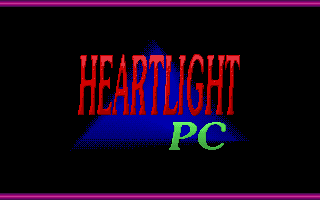
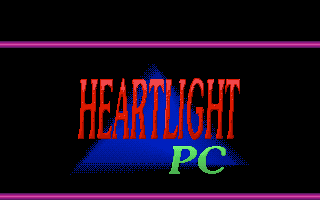
Playing with viewports

diff --git a/myEngine.cpp b/myEngine.cpp
@@ -32,7 +32,7 @@ myEngine::myEngine(uint16_t iWidth, uint16_t iHeight, string sTitle) : Engine(iW
     m_bMusic = true;
     m_bRad  = false;
     m_bJumped = false;
-    m_rcViewScreen.set(0,0,getWidth(),getHeight());
+    //m_rcViewScreen.set(0,0,getWidth(),getHeight());
 //    m_bDragScreen = false;
 //    m_bScaleScreen = false;
 }
@@ -153,9 +153,9 @@ void myEngine::draw()
 
     //glDisable( GL_LIGHTING );   //Don't care about lighting for rendering 2D objects
     //hideCursor();
-    drawObjects(m_rcViewScreen);
+    drawObjects();
     if(m_iCurGun != m_lGuns.end())
-        (*m_iCurGun)->draw(m_rcViewScreen);
+        (*m_iCurGun)->draw();
 
     //Draw debug stuff if we should
     if(m_bDebug)
@@ -433,8 +433,12 @@ void myEngine::hudSignalHandler(string sSignal)
     playSound("o_toggle");  //Play sound for toggling hud item
 }
 
+float fXpos = 0.0;
+float fYpos = 0.0;
+
 void myEngine::handleEvent(SDL_Event event)
 {
+    static bool isMouseDown = false;
     m_hud->event(event);    //Let our HUD handle any events it needs to
     switch(event.type)
     {
@@ -514,9 +518,9 @@ void myEngine::handleEvent(SDL_Event event)
                     loadLevelDirectory("res/levels");
                     break;
 
-                case SDLK_0:
-                    m_rcViewScreen.set(0,0,getWidth(),getHeight());
-                    break;
+                //case SDLK_0:
+                //    m_rcViewScreen.set(0,0,getWidth(),getHeight());
+                //    break;
                 
                 case SDLK_1:
                     iCurResolution++;
@@ -565,6 +569,7 @@ void myEngine::handleEvent(SDL_Event event)
             break;
 
         case SDL_MOUSEBUTTONDOWN:
+            isMouseDown = true;
             if(event.button.button == SDL_BUTTON_LEFT)
             {
                 if(m_iCurGun != m_lGuns.end())
@@ -582,6 +587,7 @@ void myEngine::handleEvent(SDL_Event event)
             break;
 
         case SDL_MOUSEBUTTONUP:
+            isMouseDown = false;
             if(event.button.button == SDL_BUTTON_LEFT)
             {
                 if(m_iCurGun != m_lGuns.end())
@@ -598,6 +604,13 @@ void myEngine::handleEvent(SDL_Event event)
             if(m_iCurGun != m_lGuns.end())
             {
                 (*m_iCurGun)->mouseMove(event.motion.x,event.motion.y);
+            }
+            if(isMouseDown)
+            {
+              glTranslatef(event.motion.xrel/1000.0, -event.motion.yrel/1000.0, 0.0);
+              fXpos += event.motion.xrel;
+              fYpos -= event.motion.yrel;
+              cout << "pos: " << fXpos << ", " << fYpos << endl;
             }
 /*            if(m_bDragScreen)
             {

diff --git a/Object.cpp b/Object.cpp
@@ -50,11 +50,11 @@ bool Object::update()
     return !m_bDying;
 }
 
-void Object::draw(Rect rcScreen)
+void Object::draw()
 {
     Rect rcImgPos = {0,m_iHeight*m_iCurFrame,m_iWidth,m_iHeight*(m_iCurFrame+1)};
     layer->pos = m_ptPos;//.Set(m_ptPos.x + getWidth()/2.0, m_ptPos.y + getHeight()/2.0);
-    layer->draw(rcScreen, rcImgPos);
+    layer->draw(rcImgPos);
 }
 
 void Object::setNumFrames(uint16_t iNumFrames, bool bAnimateOnce)
@@ -112,13 +112,13 @@ physicsObject::~physicsObject()
 {
 }
 
-void physicsObject::draw(Rect rcScreen)
+void physicsObject::draw()
 {
     Rect rcImgPos = {0,m_iHeight*m_iCurFrame,m_iWidth,m_iHeight*(m_iCurFrame+1)};
     layer->pos = m_physicsBody->GetPosition();
     layer->pos *= SCALE_UP_FACTOR;
     layer->rot = m_physicsBody->GetAngle();
-    layer->draw(rcScreen, rcImgPos);
+    layer->draw(rcImgPos);
 }
 
 //-----------------------------------------------------------------------------------------------------------------------
@@ -146,10 +146,10 @@ void obj::draw()
             ptPos = (*i)->body->GetPosition();
             rot = (*i)->body->GetAngle();
         }
-        if((*i)->image != NULL)
-            (*i)->image->drawCentered(ptPos.x + (*i)->pos.x*cos(rot) - (*i)->pos.y*sin(rot),
-                                      ptPos.y + (*i)->pos.y*cos(rot) + (*i)->pos.x*sin(rot),
-                                      (*i)->rot + rot, (*i)->scale.x, (*i)->scale.y);
+        if((*i)->layer != NULL && (*i)->layer->image != NULL)
+            (*i)->layer->image->drawCentered(ptPos.x + (*i)->layer->pos.x*cos(rot) - (*i)->layer->pos.y*sin(rot),
+                                      ptPos.y + (*i)->layer->pos.y*cos(rot) + (*i)->layer->pos.x*sin(rot),
+                                      (*i)->layer->rot + rot, (*i)->layer->scale.x, (*i)->layer->scale.y);
     }
 }
 
@@ -164,11 +164,7 @@ void obj::addSegment(physSegment* seg)
 physSegment::physSegment()
 {
     body = NULL;
-    image = NULL;
-    depth = 0.0;
-    scale.SetZero();
-    pos.SetZero();
-    rot = 0.0;
+    layer = NULL;
 }
 
 

diff --git a/Image.cpp b/Image.cpp
@@ -230,16 +230,19 @@ void Image::drawCentered(Point pt, float32 rotation, float32 stretchFactorx, flo
 void Image::drawCentered(float32 x, float32 y, Rect rcImgPos, float32 rotation, float32 stretchFactorx, float32 stretchFactory)
 {
     Rect rcDrawPos;
+    //TODO This scaling won't work! Fix
     rcDrawPos.set(0, 0, rcImgPos.width(), rcImgPos.height());
     rcDrawPos.scale(stretchFactorx,stretchFactory);
     rcDrawPos.offset(-rcDrawPos.width()/2.0 + (float32)screenDrawWidth/2.0 - m_ptHotSpot.x, -rcDrawPos.height()/2.0 + (float32)screenDrawHeight/2.0 - m_ptHotSpot.y);
-    glLoadIdentity( );
-    glTranslatef( (2.0*(float32)screenDrawWidth/(float32)screenDrawHeight)*((GLfloat)(x)/(GLfloat)screenDrawWidth-0.5), -2.0*(GLfloat)(y)/(GLfloat)screenDrawHeight + 1.0, MAGIC_ZOOM_NUMBER);
+    //glLoadIdentity( );
+    glTranslatef( (2.0*(float32)screenDrawWidth/(float32)screenDrawHeight)*((GLfloat)(x)/(GLfloat)screenDrawWidth-0.5), -2.0*(GLfloat)(y)/(GLfloat)screenDrawHeight + 1.0, 0.0);//MAGIC_ZOOM_NUMBER);
     glRotatef(-rotation*180.0/PI,0.0f,0.0f,1.0f);
     draw(rcDrawPos,rcImgPos);
     //Reset rotation
-    glLoadIdentity( );
-    glTranslatef( 0.0f, 0.0f, MAGIC_ZOOM_NUMBER);
+    //glLoadIdentity( );
+    //glTranslatef( 0.0f, 0.0f, MAGIC_ZOOM_NUMBER);
+    glRotatef(rotation*180.0/PI,0.0f,0.0f,1.0f);
+    glTranslatef( -((2.0*(float32)screenDrawWidth/(float32)screenDrawHeight)*((GLfloat)(x)/(GLfloat)screenDrawWidth-0.5)), -(-2.0*(GLfloat)(y)/(GLfloat)screenDrawHeight + 1.0), 0.0);
 }
 
 void Image::drawCentered(Point pt, Rect rcImgPos, float32 rotation, float32 stretchFactorx, float32 stretchFactory)

diff --git a/Object.h b/Object.h
@@ -36,7 +36,7 @@ public:
     //Helper methods
     virtual bool update();  //Return false to destroy the object
     virtual void updateFrame();
-    virtual void draw(Rect rcScreen);
+    virtual void draw();
     virtual void offset(float32 x, float32 y)   {m_ptPos.x += x; m_ptPos.y += y;};
     virtual void offset(Point pt)               {m_ptPos += pt;};
     void kill() {m_bDying = true;};    //Destroy sprite
@@ -118,11 +118,7 @@ class physSegment
 {
 public:
     b2Body* body;
-    Image*  image;
-    float32 depth;
-    Point   scale;
-    Point   pos;
-    float32 rot;
+    parallaxLayer* layer;
 
     physSegment();
 
@@ -154,7 +150,7 @@ public:
     void addFixture(b2FixtureDef* def)   {m_physicsBody->CreateFixture(def);};  //Add a physics fixture to this object
     void addBody(b2Body* body)   {body->SetUserData(this); m_physicsBody = body;};  //TODO Better way of doing this
 
-    virtual void draw(Rect rcScreen);
+    virtual void draw();
     virtual Point getCenter()    {Point pt = m_physicsBody->GetWorldCenter();pt*=SCALE_UP_FACTOR;return pt;};
     virtual b2Body* getBody() {return m_physicsBody;};
 

diff --git a/SceneLayer.cpp b/SceneLayer.cpp
@@ -15,29 +15,19 @@ parallaxLayer::~parallaxLayer()
 {
 }
 
-void parallaxLayer::draw(Rect rcScreen)
+void parallaxLayer::draw()
 {
     Rect rcImgPos;
     rcImgPos.set(0,0,image->getWidth(),image->getHeight());
-    draw(rcScreen, rcImgPos);
+    draw(rcImgPos);
 }
 
-void parallaxLayer::draw(Rect rcScreen, Rect rcImgPos)
+void parallaxLayer::draw(Rect rcImgPos)
 {
     if(image == NULL)
         return;
 
-    //TODO Make sure within screen
-
-    Point ptDrawPos = pos;
-
-    //Account for viewport position
-    ptDrawPos.x -= rcScreen.left;
-    ptDrawPos.y -= rcScreen.top;
-
-    //TODO: Account for parallax scrolling
-
-    image->drawCentered(ptDrawPos, rcImgPos, rot, scale.x, scale.y);
+    image->drawCentered(pos, rcImgPos, rot, scale.x, scale.y);
 }
 
 

diff --git a/Engine.h b/Engine.h
@@ -83,7 +83,7 @@ public:
     void createSound(string sPath, string sName);   //Creates a sound from this name and file path
     void addObject(Object* obj);    //Add an object to the object handler
     void updateObjects();           //update all objects in the game
-    void drawObjects(Rect rcScreen);   //draw all objects in the game
+    void drawObjects();   //draw all objects in the game
     void clearObjects();    //Destroy all objects, freeing memory
     void clearImages();     //Free memory associated with the images in our image map
     virtual void playSound(string sName, int volume = 100, int pan = 0, float32 pitch = 1.0);     //Play a sound

diff --git a/ballGun.cpp b/ballGun.cpp
@@ -82,16 +82,14 @@ void ballGun::fire()//mouseDown(float32 x, float32 y)
     m_lFired.push_back(newObj);
 }
 
-void ballGun::draw(Rect rcScreen)
+void ballGun::draw()
 {
     if(icon != "")
-        getImage(icon)->draw(rcScreen.left + GUN_ICON_DRAW_OFFSET, rcScreen.top + GUN_ICON_DRAW_OFFSET);
+        getImage(icon)->draw(GUN_ICON_DRAW_OFFSET, GUN_ICON_DRAW_OFFSET);
     if(gun != "" && obj != NULL)
     {
         Image* gunImg = getImage(gun);
         Point pos = obj->getCenter();
-        pos.x -= rcScreen.left;
-        pos.y -= rcScreen.top;
         Point dist = m_ptCursorPos;
         dist -= pos;
         float32 angle = 0.0;

diff --git a/Engine.cpp b/Engine.cpp
@@ -241,10 +241,10 @@ void Engine::updateObjects()
         (*i).second->updateFrame();
 }
 
-void Engine::drawObjects(Rect rcScreen)
+void Engine::drawObjects()
 {
     for(multimap<float32, Object*>::iterator i = m_mObjects.begin(); i != m_mObjects.end(); i++)
-        (*i).second->draw(rcScreen);
+        (*i).second->draw();
 }
 
 void Engine::playSound(string sName, int volume, int pan, float32 pitch)
@@ -413,6 +413,7 @@ void Engine::setup_opengl()
 
     glMatrixMode(GL_MODELVIEW);
     glLoadIdentity();
+    glTranslatef( 0.0f, 0.0f, MAGIC_ZOOM_NUMBER);
     //glEnable(GL_CULL_FACE);
     
 }

diff --git a/myEngine.h b/myEngine.h
@@ -59,7 +59,7 @@ private:
     HUD* m_hud;
     bool m_bSound, m_bMusic, m_bRad;    //Booleans for music settings and such
     bool m_bJumped; //For supercomplex movement stuff
-    Rect m_rcViewScreen;    //Screen we can currently see
+    //Rect m_rcViewScreen;    //Screen we can currently see
     list<ballGun*> m_lGuns; //Bombs for throwing at you
     list<ballGun*>::iterator m_iCurGun; //Our current weapon
     Vec2 lastMousePos;

diff --git a/ballGun.h b/ballGun.h
@@ -29,7 +29,7 @@ public:
     virtual void mouseUp(float32 x, float32 y);
     virtual void mouseMove(float32 x, float32 y)     {m_ptCursorPos.Set(x,y);};
     virtual void fire();
-    void draw(Rect rcScreen);
+    void draw();
     void clear();
     virtual void update(float32 fCurTime);
 };

diff --git a/SceneLayer.h b/SceneLayer.h
@@ -22,8 +22,8 @@ public:
     parallaxLayer(Image* img);
     ~parallaxLayer();
 
-    void draw(Rect rcScreen);
-    void draw(Rect rcScreen, Rect rcImgPos);
+    void draw();
+    void draw(Rect rcImgPos);
 };
 
 
